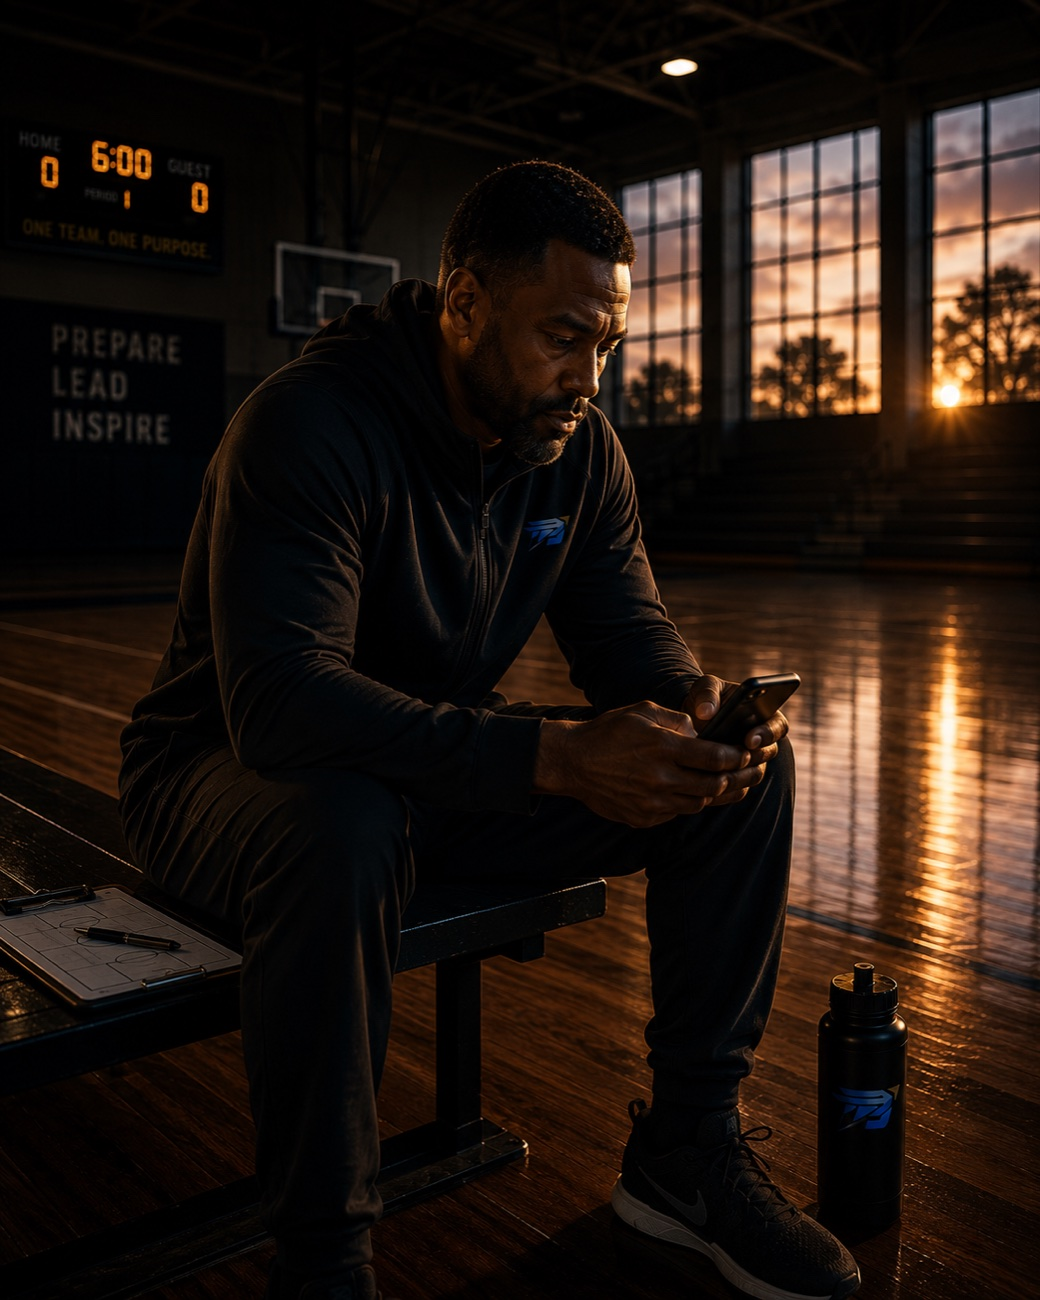
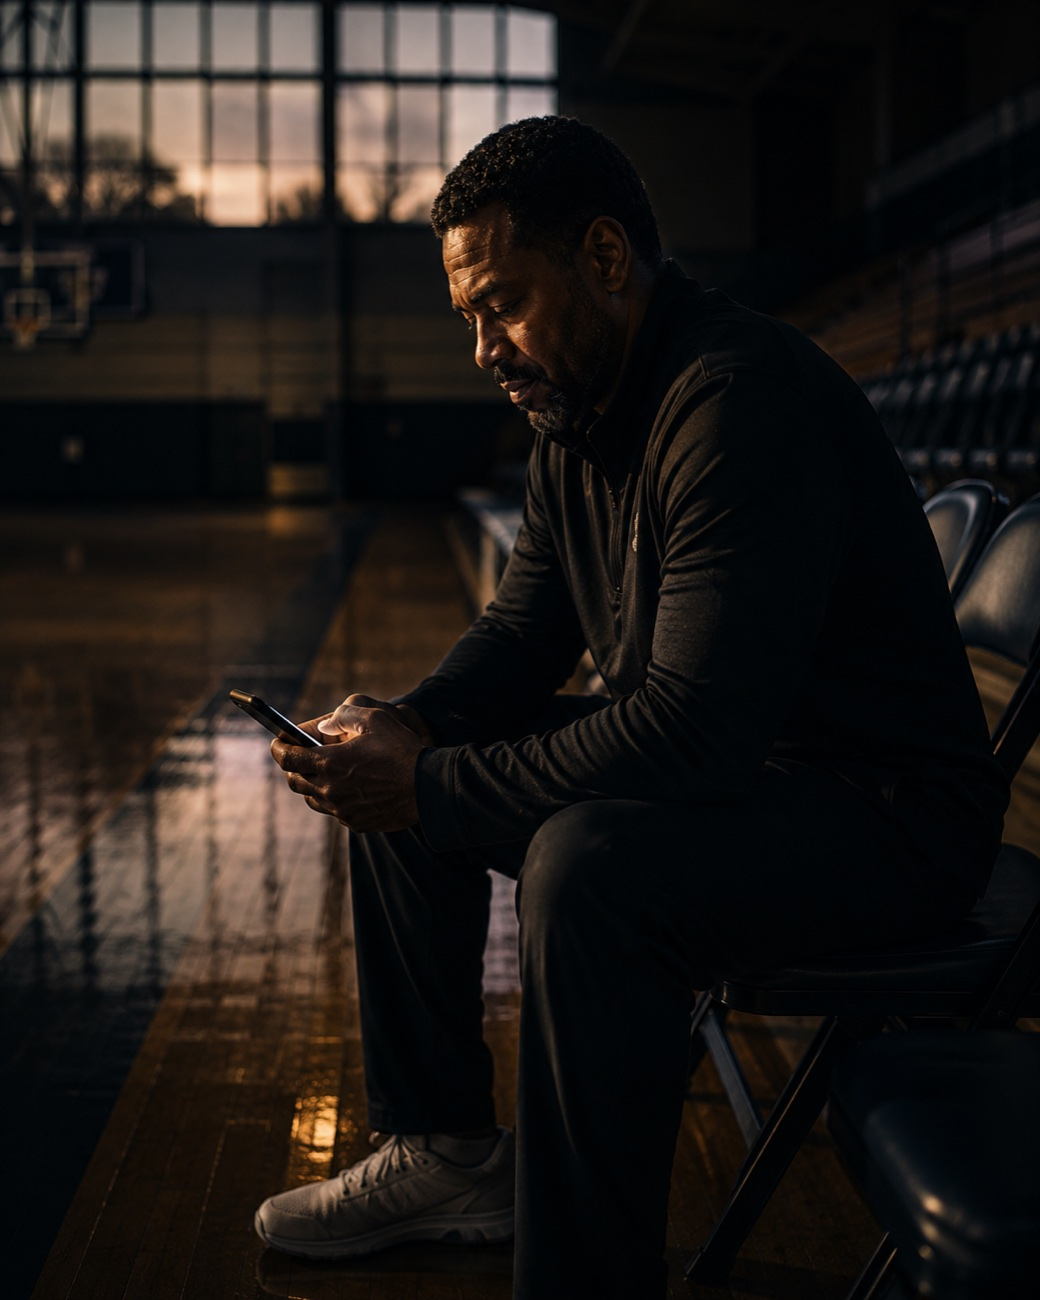
Add hero-field + problem-buried photos; stage Phase 3 images
Wire the real field-at-night hero plate and cluttered-desk problem plate into
their slots (PNG -> sized JPEG, ~210-270KB). Also optimize and stage the Phase 3
images generated ahead of time (gives-coach/athletes/family/consistency,
cta-sunset) so they're ready when those sections are built.

diff --git a/src/components/marketing/Photo.tsx b/src/components/marketing/Photo.tsx
@@ -31,9 +31,9 @@ export type PhotoId =
 
 /** Set a value to a path string once the real image exists; null = placeholder. */
 const PHOTOS: Record<PhotoId, string | null> = {
-  "hero-field": null,
+  "hero-field": "/marketing/redesign/hero-field.jpg",
   "hero-coach": "/marketing/redesign/hero-coach.jpg",
-  "problem-buried": null,
+  "problem-buried": "/marketing/redesign/problem-buried.jpg",
   "problem-embrace": "/marketing/redesign/problem-embrace.jpg",
   // We already ship a founder photo — wire it straight in.
   founder: "/marketing/founder.png",
